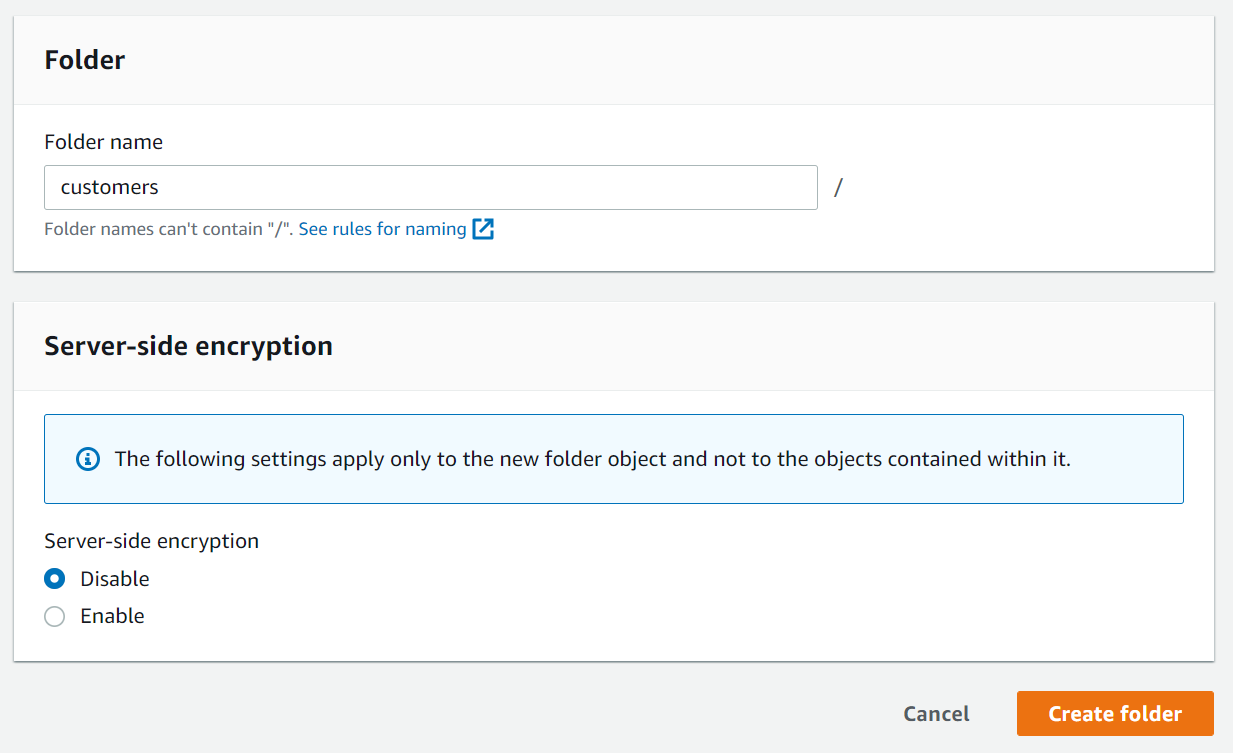
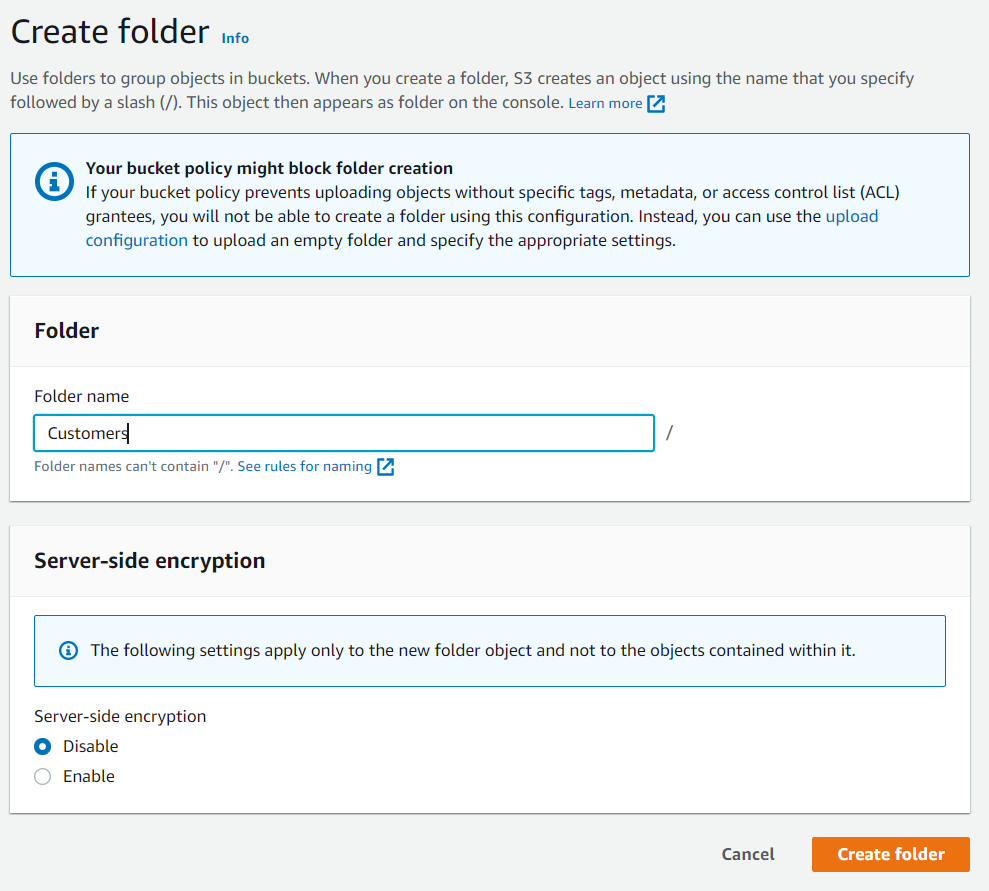
Minor updates and corrections

diff --git a/README.md b/README.md
@@ -4,14 +4,14 @@ This lab is provided as part of [AWS Innovate Data Edition](https://aws.amazon.c
 
 :information_source: You will run this lab in your own AWS account and running this lab will incur some costs. Please follow directions at the end of the lab to remove resources to avoid future costs.
 
-Amazon Macie using Machine Learning to discover sensitive data in S3 buckets. Amazon Lake Formation provides Tag-Based Access Control to provide a scalable and flexible way to manage data access in the data lake. In this lab, we will configure a Amazon Macie job to automatically detect sensitive data in an S3 bucket and apply appropriate tags in Lake Formation.
+Amazon Macie using Machine Learning to discover sensitive data in S3 buckets. AWS Lake Formation provides Tag-Based Access Control to provide a scalable and flexible way to manage data access in the data lake. In this lab, we will configure a Amazon Macie job to automatically detect sensitive data in an S3 bucket and apply appropriate tags in AWS Lake Formation.
 
 
 ## Overview
 
 In this lab, we will use Amazon Macie to identify sensitive data in a data lake, and automatically AWS Lake Formation Tag Based Access Control (TBAC) technicals to secure the data and ensure there is no unauthorized access.
 
-Amazon Macie is a fully managed data security and data privacy service that uses machine learning and pattern matching to discover and protect your sensitive data in AWS. AWS Lake Formation is a service that makes it easy to set up a secure data lake in days, allowing you to ensure secure access to your sensitive data using granular controls at the column, row, and cell-levels. Lake Formation tag-based access control (LF-TBAC) works with IAM's attribute-based access control (ABAC) to provide fine-grained access to your data lake resources and data.
+Amazon Macie is a fully managed data security and data privacy service that uses machine learning and pattern matching to discover and protect your sensitive data in AWS. AWS Lake Formation is a service that makes it easy to set up a secure data lake in days, allowing you to ensure secure access to your sensitive data using granular controls at the column, row, and cell-levels. AWS Lake Formation tag-based access control (LF-TBAC) works with IAM's attribute-based access control (ABAC) to provide fine-grained access to your data lake resources and data.
 
 In this lab, we will load some simple customer data into a bucket, configure AWS Lake Formation access controls and catalog the data with AWS Glue. We will tag the data by default as "Sensitive". We will then trigger a Macie classification job to scan the data and identify any potentially sensitive data in the bucket. These findings will be passed to a AWS Step Functions state machine to orchestrate the process of updating the tags to mark individual columns identified by Macie as personal or financial information.  Finally, we will use Amazon Athena to query the data and ensure we only have access to the right data.
 
@@ -57,23 +57,24 @@ This template will create the following resources in your account:
 
 1. Click on the following link to launch the CloudFormation process. Please double check you are in the correct account and region.
 [![Launch Stack](https://s3.amazonaws.com/cloudformation-examples/cloudformation-launch-stack.png)](https://console.aws.amazon.com/cloudformation/home?region=us-east-1#/stacks/new?stackName=macilflab-foundation&templateURL=https://s3.amazonaws.com/ee-assets-prod-us-east-1/modules/1e02deca779a4be58b9d50513a464cdc/v1/macielflab/macielflab-template.json)
-2. For "Stack name", enter "macilflab-foundation", the click "Next".
+2. On the first screen, the values will be prepopulated by the link. Click next.
+3. For "Stack name", leave "macilflab-foundation" and click "Next".
 ![](/images/cloudformation/stackdetails.PNG)
-3. On the "Configure stack options" page, leave all the default values and click "Next".
-4. On the final page, scroll to the end of the page, and mark the check box next to "I acknowledge..." and click "Create stack".
+4. On the "Configure stack options" page, leave all the default values and click "Next".
+5. On the final page, scroll to the end of the page, and mark the check box next to "I acknowledge..." and click "Create stack".
 ![](/images/cloudformation/ackcreate.PNG)
-5. It should take roughly 3 minutes to complete.
+6. It should take roughly 3 minutes to complete.
 
 
 ## Step 1 - Configure AWS Lake Formation
 
 :information_source: If you are already using AWS Lake Formation in this account, you can skip this step, and proceed directly to Step 2. 
 
-:information_source: If you are not already using Lake Formation, but do have resources using the AWS Glue Catalog, please consider impact carefully and permissions will need to be updated. These steps should be completed in a non-production/sandbox account.
+:information_source: If you are not already using AWS Lake Formation, but do have resources using the AWS Glue Catalog, please consider impact carefully and permissions will need to be updated. These steps should be completed in a non-production/sandbox account.
 
-By default, AWS Lake Formation uses the IAMAllowedPrincipals group to provide super permissions to users and roles, effectively delegating access control to IAM policies. Before we can use AWS Lake Formation to manage access to our data, we need to revoke access provided by the IAMAllowedPrincipals group. In this way, IAM policies provide coarse grained permssions, while Lake Formation manages fine grained access control to catalog resources and data.
-1. Navigate to [Lake Formation](https://console.aws.amazon.com/lakeformation/) in the AWS Management console. Confirm that you are in the correct Region.
-2. The first time you use AWS Lake Formation, you need to configure an Adminstrator. On the "Welcome to Lake Formation" dialog, leave "Add myself" selected and click "Get started".
+By default, AWS Lake Formation uses the IAMAllowedPrincipals group to provide super permissions to users and roles, effectively delegating access control to IAM policies. Before we can use AWS Lake Formation to manage access to our data, we need to revoke access provided by the IAMAllowedPrincipals group. In this way, IAM policies provide coarse grained permssions, while AWS Lake Formation manages fine grained access control to catalog resources and data.
+1. Navigate to [AWS Lake Formation](https://console.aws.amazon.com/lakeformation/) in the AWS Management console. Confirm that you are in the correct Region.
+2. The first time you use AWS Lake Formation, you need to configure an Adminstrator. On the "Welcome to AWS Lake Formation" dialog, leave "Add myself" selected and click "Get started".
 ![](/images/lakeformation/welcome.PNG)
 3. Click on "Settings, and uncheck the 2 checkboxes under "Data catalog settings", then click "Save".
 ![](/images/lakeformation/catalogsettings.PNG)
@@ -91,7 +92,7 @@ By default, AWS Lake Formation uses the IAMAllowedPrincipals group to provide su
 
 In this step, we are going to grant permission for the glue crawler to create tables in our database.
 
-1. In Lake Formation, click on "Data lake permissions", then click "Grant".
+1. In AWS Lake Formation, click on "Data lake permissions", then click "Grant".
 2. In the "IAM users and roles" dropdown, select the "macielflab-GlueExecutionRole".
 ![](/images/lakeformation/glueexecution-principal.PNG)
 3. Under "LF-Tags" or catalog resources, select "Named data catalog resources".
@@ -108,9 +109,9 @@ We have now granted permission for the Glue crawler to create a table in our dat
 
 In this lab, we're going to use a very small dataset that containers some sensitive personal and financial information. 
 
-1. Download the following CSV file with dummy customer data: [customers.csv](data/customers.csv)
-2. Navigate to S3 in the AWS Management Console, and click on the bucket named "<accountID>-macielflab-data".
-3. Click "Create folder", and enter "Customers" as the Folder name - note that this name is case sensitive. Click "Create folder".
+1. Download the following CSV file with dummy customer data: [customers.csv](data/customers.csv). Note: click on the link, click on "Raw" and save the file to your local disk.
+2. Navigate to [Amazon S3](https://console.aws.amazon.com/s3/ in the AWS Management Console, and click on the bucket named "<accountID>-macielflab-data".
+3. Click "Create folder", and enter "Customers" as the Folder name - note that this name is case sensitive and ends with an 's'. Click "Create folder".
 ![](/images/s3/createfolder.PNG)
 4. Click into the newly created folder, click "Upload". Select the CSV file you downloaded earlier and click "Upload" to load the data into the bucket.
 ![](/images/s3/upload.PNG)
@@ -123,13 +124,13 @@ In this lab, we're going to use a very small dataset that containers some sensit
 4. The crawler may take 1-2 minutes to complete. You should see the status change to "Stopping" or "Ready", with 1 table created. 
 ![](/images/glue/crawler.PNG)
 
-In the next steps, we'll configure Lake Formation tags on the database and check that we can query the data. 
+In the next steps, we'll configure AWS Lake Formation tags on the database and check that we can query the data. 
 
 ## Step 5 - Create and configure AWS Lake Formation tags
 
-In this step, we're going to configure our Lake Formation LFTag ontology, set LF-Tag permissions and assign values to our customer table and datbase. 
+In this step, we're going to configure our AWS Lake Formation LFTag ontology, set LF-Tag permissions and assign values to our customer table and datbase. 
 
-1. Navigate to [Lake Formation](https://console.aws.amazon.com/lakeformation) in the AWS Management Console. Confirm that you are in the correct Region.
+1. Navigate to [AWS Lake Formation](https://console.aws.amazon.com/lakeformation) in the AWS Management Console. Confirm that you are in the correct Region.
 2. Click on "Tables" in the navigation panel to confirm that our customer table has been created correctly. 
 ![](/images/lakeformation/table.PNG)
 3. Click on "LF-Tags" in the AWS Management Console.
@@ -167,13 +168,14 @@ In this step, we're going to configure our Lake Formation LFTag ontology, set LF
 24. Under "Database permissions", mark the checkbox next to "Describe".
 25. Under "Table permissions", mark the checkbox for "Select" and "Describe". This will grant your current user permission to view and run select statements for any table with tag "Classification=UNCLASSIFIED". 
 ![](/images/lakeformation/grant-user-permissions.PNG)
+
 The final step in this section is allocate "Classification=UNCLASSIFIED" to the database. Table and column resources in this database will inherit this tag value. 
 26. Click on "Database" in the navigation panel, then click on the "customer" database.
 27. Click "Edit LF-tags, then click "Assign new LF-Tag".
 28. For "Assigned keys", select "Classification". For values, select "UNCLASSIFIED" only. Click Save.
 ![](/images/athena/managesettings.PNG)
 
-## Step 5 - Validate permissions will Amazon Athena
+## Step 5 - Validate permissions with Amazon Athena
 
 1. Navigate to [Amazon Athena](https://console.aws.amazon.com/athena) in the AWS Management Console. Confirm that you are in the correct Region.
 2. If this is the first time you're using Amazon Athena, click the "Explore the query editor" button; otherwise, click on "Query editor" in the navigation panel.
@@ -203,14 +205,23 @@ As you can see, the dataset includes some data that is potentially PII or sensit
 9. In the state search bar, enter "Map"
 
 ![](/images/stepfunctions/action-map.PNG)
+
 10. Click and drag a "Map" state to the state machine between the "Transform Payload" and the "Success" states.
+
 11. With the "Map" state selected, enter "For each classification" as the "State name".
+
 12. For "Path to items array", enter "$.body.classifications".
+
 ![](/images/stepfunctions/action-foreach.PNG)
+
 13. In the state search bar, enter "addLFT".
+
 ![](/images/stepfunctions/action-addLFT.PNG)
+
 14. Drag the "AddLFTagsToResource" state to the "Drop state here" placeholder.
+
 15. With the "AddLFTagsToResource" state selected, enter "Update Column Classification Tag"
+
 16. For API Parameters, enter the following JSON:
 ```
 {
@@ -230,13 +241,14 @@ As you can see, the dataset includes some data that is potentially PII or sensit
 }
 ```
 ![](/images/stepfunctions/action-updatetags.PNG)
+
 17. Click on the "Apply and exit" button in the top right hand corner of the page, then click "Save". 
 
 18. You will see a popup warning about IAM permissions. Click "Save anyway" to continue.	
 
 ## Step 7 - Create an AWS EventBridge rule
 Next, let's create an EventBridge rule that will trigger our state machine each time the Amazon Macie classification job completes. 
-1. Navigate to [Amazon EventBridge](https://console.aws.amazon.com/eventbridge) in the AWS Management Console. Confirm that you are in the correct Region and click "Create rule". 
+1. Navigate to [Amazon EventBridge](https://console.aws.amazon.com/events) in the AWS Management Console. Confirm that you are in the correct Region and click "Create rule". 
 2. Enter "MacieLFLab-StartFunctionOnJobComplete" as the rule "Name", then click "Next".
 ![](/images/eventbridge/rule1.PNG)
 3. Under "Event pattern" at the bottom of the next page, select "Macie" in the "AWS Service" dropdown.
@@ -255,7 +267,7 @@ Our final task is to create and run an Amazon Macie classification job, and veri
 1. Navigate to [Amazon Macie](https://console.aws.amazon.com/macie) in the AWS Management Console. Confirm that you are in the correct Region.
 2. If this if the first time you've used Amazon Macie in the account, you will need to enable the service. Click on "Get started". Review the Macie information, then click "Enable Macie".
 3. Click "Jobs" in the navigation panel, then click "Create job"
-4. Mark the checkbox next to the bucket named "<accountID>-macielflab-data>". Leave all other buckets unchecked, then click "Next".
+4. Mark the checkbox next to the bucket named "<accountID>-macielflab-data". Leave all other buckets unchecked, then click "Next". If you don't see the bucket, try refreshing the page.
 ![](/images/macie/job1.PNG)
 5. Review the S3 buckets, then click "Next".
 6. On the "Refine the scope" page, select "One-time job", then click "Next".
@@ -278,13 +290,13 @@ SELECT * FROM "customer"."customers" limit 10;
 ![](/images/athena/data-after.PNG)
 As you can now see, the fields identified by the Macie classification job no longer appear in the query, as we don't have permission to view the columns tagged as "FINANCIAL_INFORMATION" or "PERSONAL_INFORMATION"
 
-3. Let's also also check the customer table in Lake Formation.  Navigate to  [AWS Lake Formation](https://console.aws.amazon.com/lakeformation) in the AWS Management Console.
+3. Let's also also check the customer table in AWS Lake Formation.  Navigate to  [AWS Lake Formation](https://console.aws.amazon.com/lakeformation) in the AWS Management Console.
 4. Click on "LF-Tags" in the navigation panel, then click on the "Classification" tag to see the values. Note the LF-tag values for each column.
 ![](/images/lakeformation/final-tags.PNG)
 
 ## Conclusions and Next Steps
 
-Congratulations on completing this lab. In this exercise, we have created and configured Lake Formation Tag Based Access Control (TBAC) and used an Amazon Macie job to automatically detect sensitive data and update AWS Lake Formation tags accordingly. 
+Congratulations on completing this lab. In this exercise, we have created and configured AWS Lake Formation Tag Based Access Control (TBAC) and used an Amazon Macie job to automatically detect sensitive data and update AWS Lake Formation tags accordingly. 
 
 For the purposes of this lab, we have initiated the Macie job as a One-off Job that we create manually. As a next step, you could look at using AWS EventBridge and AWS Step Functions to create and run the job automatically each time data is loaded to the S3 bucket, or potentially every time the catalog is updated via the crawler. You could also configure the Amazon Macie classification job to run on a scheduled basis. 
 
@@ -304,7 +316,7 @@ For the purposes of this lab, we have initiated the Macie job as a One-off Job t
 2. This will remove all resources defined in the stack. Monitor the progress to ensure that all resources have been removed.
 
 ### Revert changes in AWS Lake Formation - optional.
-1. To revert the Lake Formation changes, navigate to AWS Lake Formation in the AWS Management Console. 
+1. To revert the AWS Lake Formation changes, navigate to AWS Lake Formation in the AWS Management Console. 
 2. Click on "Settings" in the navigation panel, then mark the two check boxes under "Default permissions for newly created databases and tables". Click Save.
 3. Click on "Administrative roles and tasks" in the navigation panel. 
 4. Under "Data lake administrators", click "Choose adminstrators". 
